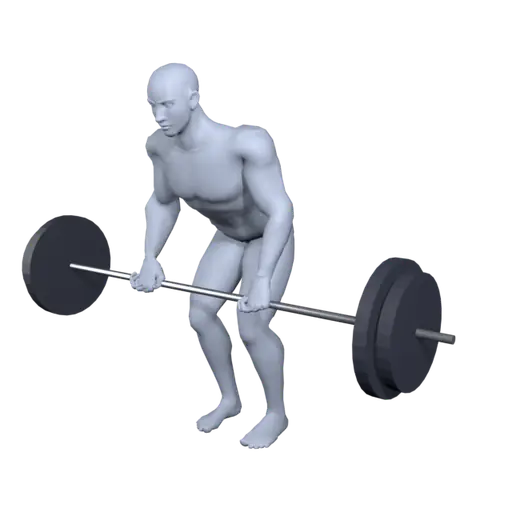
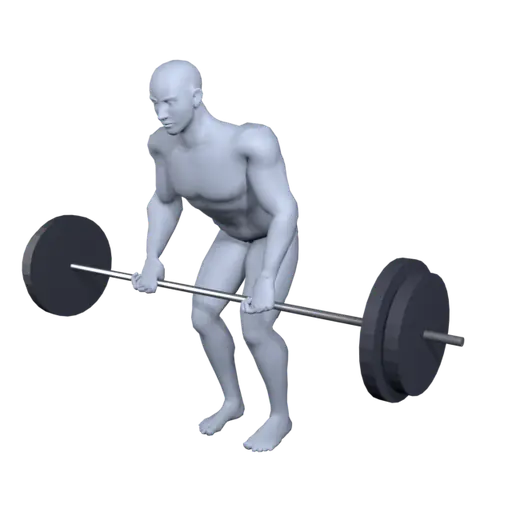
3D: хват великим пальцем, станова тяга

diff --git a/service-worker.js b/service-worker.js
@@ -3,7 +3,7 @@
 //   • код застосунку (навігація, *.js, *.css) — network-first: свіжа версія підтягується
 //     при кожному онлайн-запуску, а офлайн працює з кешу;
 //   • іконки/шрифти/маніфест — cache-first (рідко змінюються), із докешуванням у рантаймі.
-const CACHE = 'kachalka-v64';
+const CACHE = 'kachalka-v65';
 // фото рецептів: окремий кеш, який не стирається при кожному оновленні версії
 const IMG_CACHE = 'kachalka-recipe-img-v1';
 const ASSETS = [

diff --git a/js/app.js b/js/app.js
@@ -4615,7 +4615,7 @@ async function guideText(id) {
     return base; // перекладу немає — українською
   }
 }
-const EX_IMG_V = 3; // підняти після перерендеру img/exercises — SW віддає їх із кешу (cache-first)
+const EX_IMG_V = 4; // підняти після перерендеру img/exercises — SW віддає їх із кешу (cache-first)
 function guideMediaHTML(id, cls = '') {
   // два кадри (старт / фінал) м'яко змінюють один одного; немає файлу — блок ховається
   return `<div class="guide-media ${cls}">

diff --git a/js/version.js b/js/version.js
@@ -1,2 +1,2 @@
 // згенеровано deploy.sh
-export const APP_VERSION = '2026-10-07 19:04';
+export const APP_VERSION = '2026-10-07 19:21';
